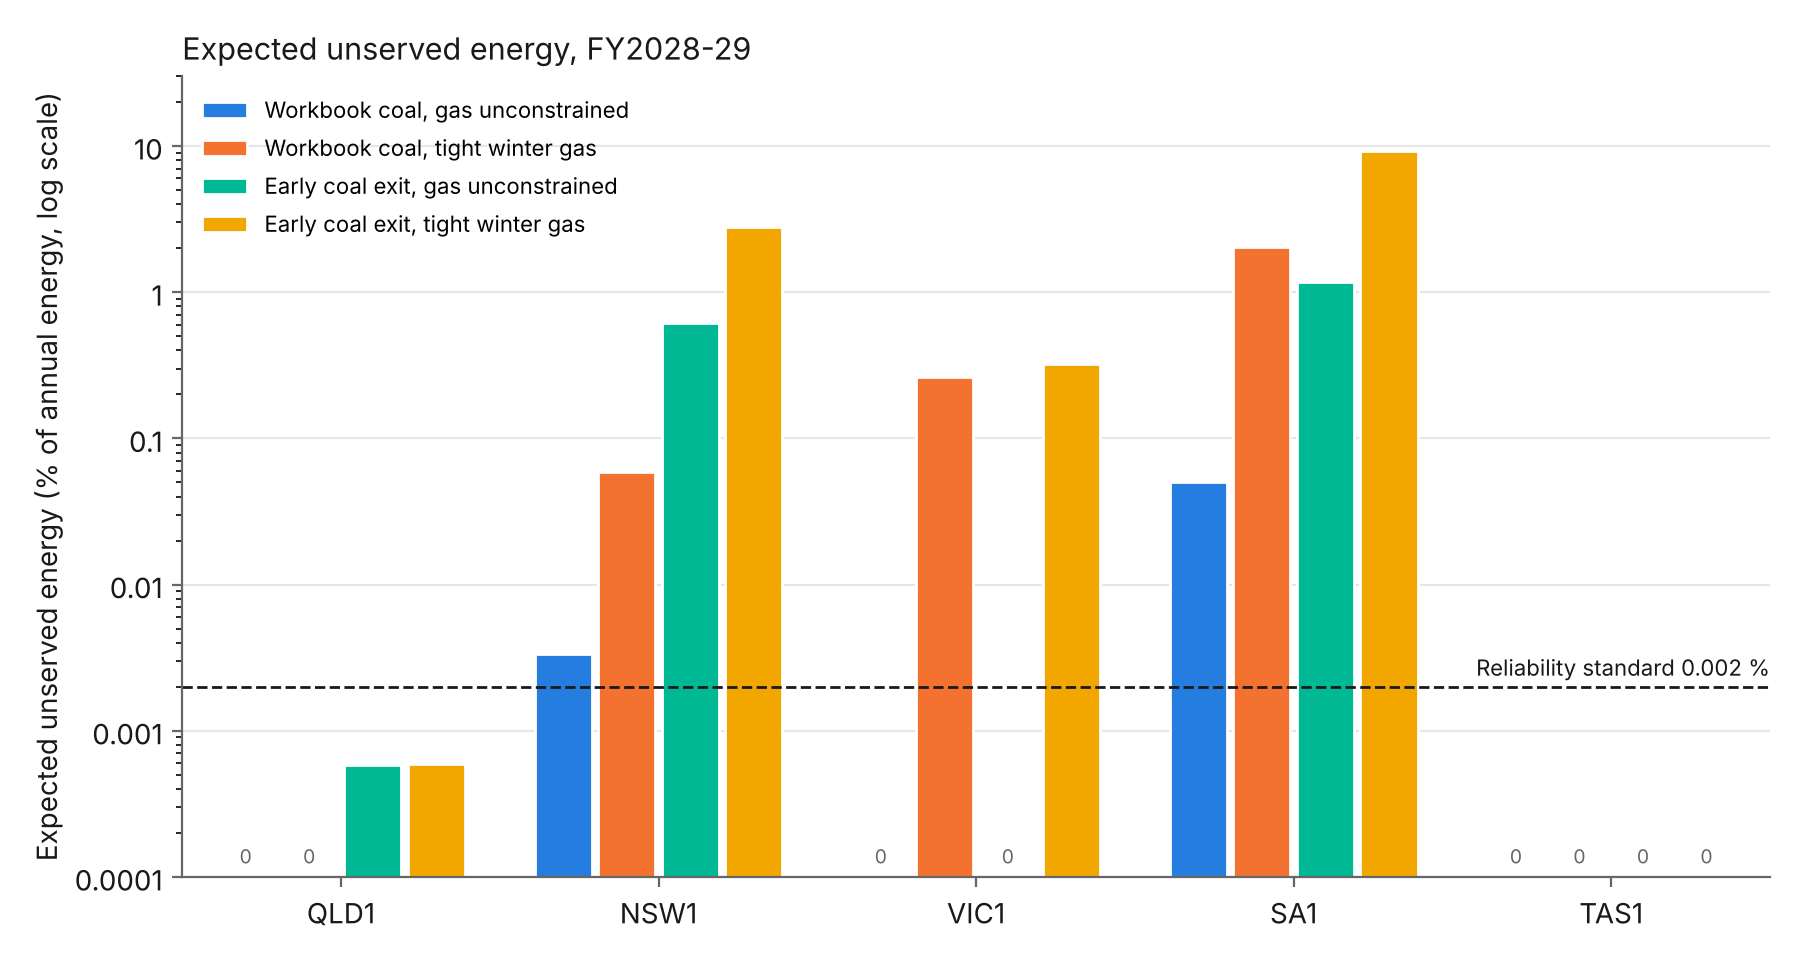
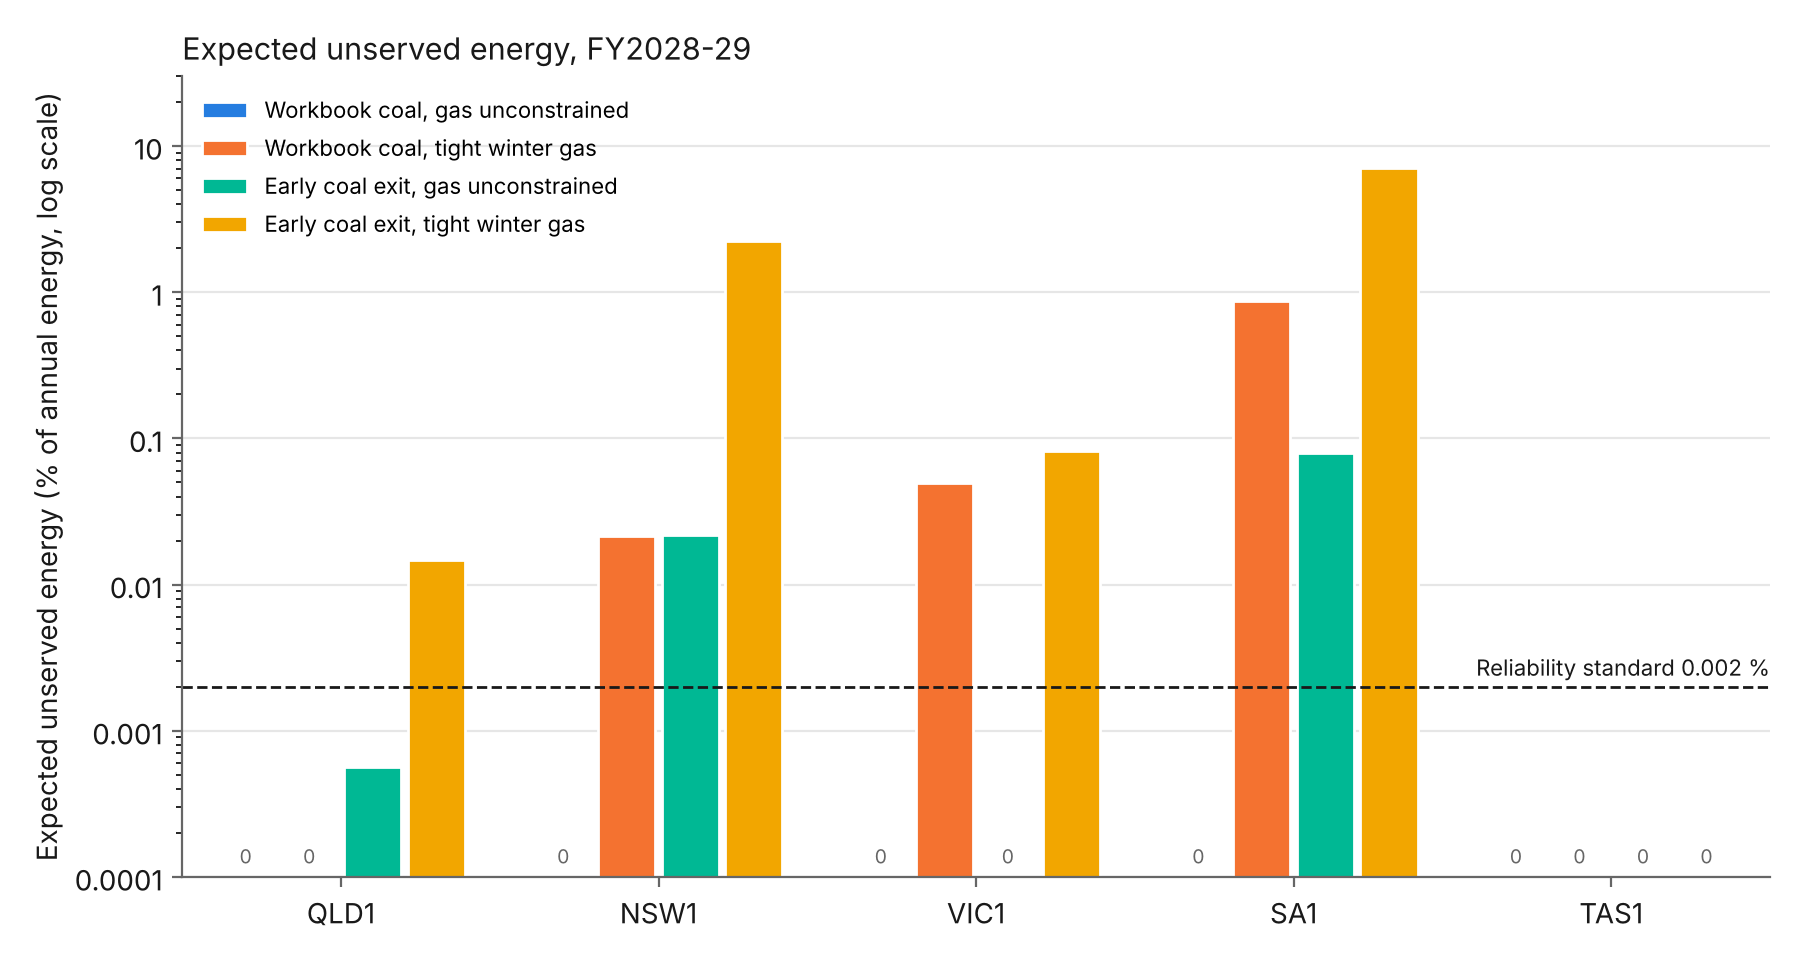
Market model v0.2 results: whole-year hydro plan, unit commitment
80 dispatches (4 scenarios x 2 POE x 10 outage draws). Base case within
the 0.002% standard; tight winter gas and early coal exit each push SA
and NSW above it; together they compound (NSW 2.25%, SA 7.1%). Lower
than v0.1 throughout because Tasmania and Snowy now plan water over the
year (with perfect foresight, so optimistic). README, figures and
results updated; root README status v0.2.

Claude-Session: https://claude.ai/code/session_015EKiBFD3FjVc75ZmpDSgJV

diff --git a/projects/market-model/README.md b/projects/market-model/README.md
@@ -10,14 +10,13 @@ Inputs come from AEMO's ISP *Inputs, Assumptions and Scenarios Report* (IASR) wo
 demand, wind and solar traces. They are parsed into versioned tables committed in
 [`inputs/`](inputs/).
 
-**Status: v0.1.** Every element of the assessment is present, each in simplified form; the
-simplifications are listed below. See [docs/design_notes.md](docs/design_notes.md) for the
-reasons behind each choice.
+**Status: v0.2.** Every element of the assessment is present, each in simplified form; the
+simplifications are listed below. v0.2 adds a whole-year water plan for Tasmania and Snowy,
+minimum running levels and ramping for coal and gas, and the groundwork for a gas balance built
+from GSOO data. See [docs/design_notes.md](docs/design_notes.md) for the reasons behind each
+choice, and [docs/data_needed.md](docs/data_needed.md) for the AEMO data still to be added.
 
-## Results (v0.1)
-
-> These results are from v0.1, before the hydro, unit-commitment and gas changes described in
-> the method table. The study is being rerun with them.
+## Results (v0.2)
 
 ![Expected unserved energy by region and scenario](docs/figures/eue_by_region.png)
 
@@ -26,35 +25,43 @@ brackets: outage draws, out of 10, with any unserved energy.
 
 | Region | Workbook coal, gas unconstrained | Workbook coal, tight winter gas | Early coal exit, gas unconstrained | Early coal exit, tight winter gas |
 |---|---|---|---|---|
-| QLD1 | 0 (0) | 0 (0) | 0.0005 (5) | 0.0005 (6) |
-| NSW1 | **0.0033** (1) | **0.059** (3) | **0.62** (10) | **2.79** (10) |
-| VIC1 | 0 (0) | **0.26** (10) | 0 (0) | **0.32** (10) |
-| SA1 | **0.050** (1) | **2.04** (10) | **1.17** (10) | **9.25** (10) |
+| QLD1 | 0 (0) | 0 (0) | 0.0005 (4) | **0.015** (10) |
+| NSW1 | 0 (0) | **0.021** (6) | **0.022** (10) | **2.25** (10) |
+| VIC1 | 0 (0) | **0.050** (10) | 0 (0) | **0.082** (10) |
+| SA1 | 0 (0) | **0.87** (10) | **0.079** (10) | **7.06** (10) |
 | TAS1 | 0 (0) | 0 (0) | 0 (0) | 0 (0) |
 
 Bold: above the reliability standard. Full results: [`results/eue.csv`](results/eue.csv) and,
 for every run, [`results/runs.csv`](results/runs.csv).
 
+**Read these as optimistic.** The Tasmanian and Snowy water plan is made with full knowledge of
+the year's weather and breakdowns, so the dams save water for exactly the weeks that need it.
+Planning on expected conditions instead is the next change (see Assumptions).
+
 ### Findings
 
-1. **Base case: close to the standard, with the excess driven by one outage draw.** QLD, VIC
-   and TAS have no unserved energy. NSW and SA exceed 0.002 %, but only in one of the ten
-   outage draws; with ten draws, that is not distinguishable from meeting the standard. The
-   model omits several things that would raise EUE (other weather years, long-duration outages,
-   unit commitment), so it should not be read as showing a comfortable margin either.
-2. **Tight winter gas creates shortfalls in Victoria and South Australia in every draw.** With
-   southern gas-powered generation capped at 587 TJ/day from June to August, VIC reaches
-   0.26 % and SA 2.0 %. Here the gas limit drives the result, not unlucky outages: long,
-   still winter periods need more gas than the cap allows.
-3. **Early coal exit moves the problem to New South Wales.** Retiring Bayswater and Vales
-   Point B leaves NSW with only Mt Piper's 1.4 GW of coal. NSW EUE rises to 0.62 % in every
-   draw. Gas fills most of the gap: southern gas burn rises from 33 PJ to 175 PJ a year, and
-   the peak winter day from about 1,500 to 1,850 TJ/day.
-4. **The two risks compound.** With both early exit and tight gas, EUE is far above the sum of
-   the separate effects: NSW 2.8 % against 0.06 % + 0.62 %, and SA 9.2 % against 2.0 % +
-   1.2 %. Early coal retirement is workable here only if winter gas is available, and winter
-   gas is exactly what the GSOO flags as at risk. That interaction is what an integrated
-   gas–electricity assessment exists to catch.
+1. **Base case: within the standard.** No region has unserved energy in any outage draw.
+2. **Tight winter gas creates shortfalls in South Australia and Victoria in every draw.** With
+   southern gas-powered generation capped at 195 TJ/day from June to August, SA reaches 0.87 %
+   and VIC 0.05 %, and NSW exceeds the standard in six draws of ten. The gas limit drives the
+   result, not unlucky outages.
+3. **Early coal exit alone pushes NSW and SA above the standard.** Retiring Bayswater and Vales
+   Point B leaves NSW with only Mt Piper's 1.4 GW of coal. Gas fills most of the gap: southern
+   gas burn rises from 9 PJ to 168 PJ a year, and the peak winter day from about 700 to
+   1,650 TJ, above the top of the GSOO's range for southern gas-powered generation.
+4. **The two risks compound.** With both, unserved energy is far above the sum of the separate
+   effects: NSW 2.25 % against 0.021 % + 0.022 %, and SA 7.1 % against 0.87 % + 0.08 %. Early
+   coal retirement is workable here only if winter gas is available, and winter gas is exactly
+   what the GSOO flags as at risk. That interaction is what an integrated gas–electricity
+   assessment exists to catch.
+
+**What changed from v0.1.** Unserved energy is lower in every scenario: the whole-year water
+plan lets Tasmania and Snowy save water for winter, where v0.1 forced every store back to its
+starting level each week. The base case moves from marginally above the standard (one draw of
+ten) to within it. The compounding of coal and gas risk holds in both versions. On/off
+decisions for coal and gas barely change unserved energy: in a shortfall week everything runs
+flat out, so minimum levels do not bind (checked against exact per-unit decisions on a tight
+week).
 
 ![Unserved energy in each outage sample](docs/figures/unserved_by_sample.png)
 
@@ -67,13 +74,13 @@ while the shortfalls here are multi-day energy shortages in winter.
 | Quantity | This model | Published | Source |
 |---|---|---|---|
 | Victorian reliability, FY2028-29, committed and anticipated fleet | Within the standard (0 % EUE) | No shortfall against the standard until 2030-31 (2025 ESOO, as summarised by the Victorian Auditor-General's Office) | [VAGO](https://audit.vic.gov.au/report/managing-transition-renewable-energy?section=) |
-| Peak winter-day gas for southern gas-powered generation | 1,174 TJ/day with no outages; about 1,500 TJ/day averaged over outage draws | 700 to 1,200 TJ/day | [2025 GSOO webinar](https://www.aemo.com.au/-/media/files/gas/national_planning_and_forecasting/gsoo/2025/2025-gsoo-webinar-presentation.pdf) |
-| Timing of southern peak-day gas risk | Tight case modelled in winter 2028 and 2029 | Peak-day shortfall risk from 2028 | [2025 GSOO](https://www.aemo.com.au/-/media/files/gas/national_planning_and_forecasting/gsoo/2025/2025-gas-statement-of-opportunities.pdf) |
+| Peak winter-day gas for southern gas-powered generation (base case) | About 700 TJ/day averaged over outage draws (390 TJ/day with no outages) | 700 to 1,200 TJ/day | [2025 GSOO webinar](https://www.aemo.com.au/-/media/files/gas/national_planning_and_forecasting/gsoo/2025/2025-gsoo-webinar-presentation.pdf) |
+| Timing of southern peak-day gas risk | Tight case modelled in winter 2028 and June 2029 | Peak-day shortfall risk from 2029 (2026 GSOO; 2028 in the 2025 GSOO) | [2026 GSOO](https://www.aemo.com.au/-/media/files/gas/national_planning_and_forecasting/gsoo/2026/2026-gas-statement-of-opportunities.pdf) |
 
-The model's winter gas peak is at or above the top of the GSOO range. That fits a model with no
-unit commitment, which runs gas hard in the few hours it is needed. A region-by-region
-comparison with the ESOO's published EUE figures is the next step; it needs the ESOO data
-workbook, which AEMO's site does not serve to automated downloads.
+With outages, the base case's winter gas peak sits at the bottom of the GSOO range; without
+outages it is well below. Both fit a model whose dams plan with perfect foresight. A
+region-by-region comparison with the ESOO's published unserved energy figures needs the ESOO
+data workbook, which AEMO's site does not serve to automated downloads.
 
 ## Method
 
@@ -109,7 +116,8 @@ reliability.
   variability, the largest driver of EUE, is not sampled.
 * **Perfect foresight:** inside each week for dispatch, and over the whole year for the
   Tasmanian and Snowy water plan. Real operators plan water without knowing the year's weather
-  or breakdowns.
+  or breakdowns. The next step is to plan on expected conditions (average availability, other
+  weather years) and treat the plan as a target the dispatch may depart from at a cost.
 * **Unit commitment is approximate:** a linear "share of units online" per station, with
   assumed minimum up and down times and no start-up costs. On a tight week it matches exact
   per-unit decisions; on/off detail matters more for cost than for unserved energy.
@@ -120,8 +128,9 @@ reliability.
 * **Ten outage samples** per POE level. EUE is a tail statistic, so the sampling error on small
   values is large. Scenario comparisons are more reliable than absolute levels, because every
   scenario uses the same outage draws.
-* **The tight-gas cap is illustrative:** half of the model's own peak winter-day gas burn. It is
-  not yet derived from the GSOO supply-demand balance.
+* **The tight-gas cap is illustrative:** half of the model's own peak winter-day gas burn with
+  no outages (195 TJ/day). The daily southern gas balance that replaces it is built and waits on
+  the 2026 GSOO figures.
 * **Draft inputs.** The workbook is the Draft 2026 ISP version (v7.5); the traces are from the
   2024 ISP.
 
@@ -145,8 +154,8 @@ uv run nemmodel study
 uv run nemmodel figures
 ```
 
-`nemmodel study` runs 80 one-year dispatches across four processes, which takes about half an
-hour. The seed is fixed in [`config/assumptions.yaml`](config/assumptions.yaml), so reruns give
+`nemmodel study` runs 80 one-year dispatches across three processes, which takes about 1.5
+hours (each process needs up to about 3 GB of memory). The seed is fixed in [`config/assumptions.yaml`](config/assumptions.yaml), so reruns give
 the same results. To rebuild the input tables from a workbook:
 
 ```bash

diff --git a/README.md b/README.md
@@ -6,7 +6,7 @@ open-source tools. Each project is self-contained, with its own README, tests an
 | Project | What it does | Status |
 |---|---|---|
 | [Price spike forecasting and battery dispatch](projects/price-spike-forecast/) | Probabilistic 5-minute price forecasts for Victoria (LightGBM quantiles and a spike classifier) and a battery that bids on them; walk-forward evaluation with bootstrap intervals | Development results complete; final holdout pending |
-| [NEM market and reliability model](projects/market-model/) | Five-region hourly PyPSA model built from AEMO's ISP inputs: Monte Carlo outages, expected unserved energy against the reliability standard, and a southern winter gas constraint; coal timing x gas scenario study for FY2028-29 | v0.1 |
+| [NEM market and reliability model](projects/market-model/) | Five-region hourly PyPSA model built from AEMO's ISP inputs: Monte Carlo outages, expected unserved energy against the reliability standard, and a southern winter gas constraint; coal timing x gas scenario study for FY2028-29 | v0.2 |
 
 ## Layout
 
